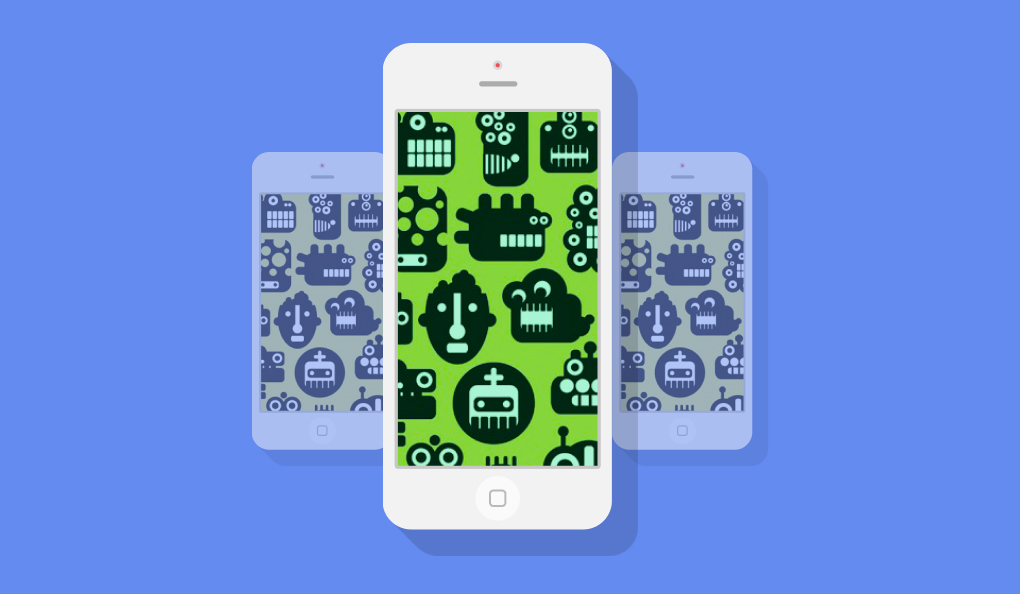
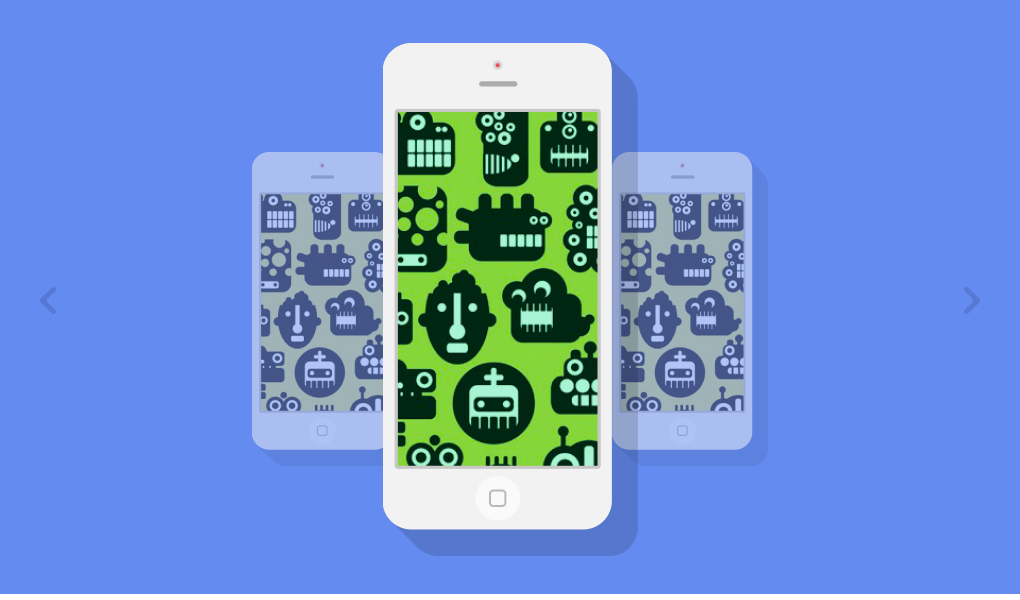
feat: slider basic css

diff --git a/src/index.html b/src/index.html
@@ -21,50 +21,60 @@
       </nav>
       <h1 class="header__title">Singolo<span class="header__title-star">*</span></h1>
     </header>
-    <!-- <section class="slider"></section> -->
+    <section class="slider">
+      <div class="slide-left"><div class="arrow-left"></div></div>
+      <img src="./assets/img/slider-image/slider-bg.jpg" alt="phones" class="slider__img" />
+      <div class="slide-right"><div class="arrow-right"></div></div>
+    </section>
     <section class="services" id="services">
-      <h2>Our Services</h2>
+      <h2 class="services__title">Our Services</h2>
       <p class="services__text">
         Fusce dapibus, tellus ac cursus commodo, tortor mauris condimentum. Duis mollis, non commodo luctus, nisi erat
         porttitor ligula, eget lacinia odio sem nec elit. Fusce dapibus, tellus ac cursus commodo, tortor mauris
         condimentum nibh.
       </p>
       <div class="services__list">
-        <img src="./assets/img/icon/services-item-1.svg" alt="pencil" />
-        <h3>Custom Design</h3>
-        <p>
+        <img class="services__img" src="./assets/img/icon/services-item-1.svg" alt="pencil" />
+        <h3 class="services__list-title">Custom Design</h3>
+        <p class="services__list-text">
           Curabitur vestibulum eget mauris quis laoreet. Phasellus in quam laoreet, viverra lacus ut, ultrices velit.
         </p>
       </div>
       <div class="services__list">
-        <img src="./assets/img/icon/services-item-2.svg" alt="ideas" />
-        <h3>Inovative Ideas</h3>
-        <p>Quisque luctus, quam eget molestie commodo, lacus purus cursus purus, nec rutrum tellus dolor id lorem.</p>
+        <img class="services__img" src="./assets/img/icon/services-item-2.svg" alt="ideas" />
+        <h3 class="services__list-title">Inovative Ideas</h3>
+        <p class="services__list-text">
+          Quisque luctus, quam eget molestie commodo, lacus purus cursus purus, nec rutrum tellus dolor id lorem.
+        </p>
       </div>
       <div class="services__list">
-        <img src="./assets/img/icon/services-item-3.svg" alt="heart" />
-        <h3>Love Is The Answer</h3>
-        <p>
+        <img class="services__img" src="./assets/img/icon/services-item-3.svg" alt="heart" />
+        <h3 class="services__list-title">Love Is The Answer</h3>
+        <p class="services__list-text">
           Nulla sed nunc et tortor luctus faucibus. Morbi at aliquet turpis, et consequat felis. Quisque condimentum.
         </p>
       </div>
       <div class="services__list">
-        <img src="./assets/img/icon/services-item-4.svg" alt="phone" />
-        <h3>Responsive Layout</h3>
-        <p>Sed porttitor placerat rhoncus. In at nunc tellus. Maecenas blandit nunc ligula. Praesent elit leo.</p>
+        <img class="services__img" src="./assets/img/icon/services-item-4.svg" alt="phone" />
+        <h3 class="services__list-title">Responsive Layout</h3>
+        <p class="services__list-text">
+          Sed porttitor placerat rhoncus. In at nunc tellus. Maecenas blandit nunc ligula. Praesent elit leo.
+        </p>
       </div>
       <div class="services__list">
-        <img src="./assets/img/icon/services-item-5.svg" alt="Support" />
-        <h3>24 / 7 Support</h3>
-        <p>
+        <img class="services__img" src="./assets/img/icon/services-item-5.svg" alt="Support" />
+        <h3 class="services__list-title">24 / 7 Support</h3>
+        <p class="services__list-text">
           Vivamus vel quam lacinia, tincidunt dui non, vehicula nisi. Nulla a sem erat. Pellentesque egestas venenatis
           lorem .
         </p>
       </div>
       <div class="services__list">
-        <img src="./assets/img/icon/services-item-6.svg" alt="star" />
-        <h3>Feel Like A Star</h3>
-        <p>Quisque hendrerit purus dapibus, ornare nibh vitae, viverra nibh. Fusce vitae aliquam tellus.</p>
+        <img class="services__img" src="./assets/img/icon/services-item-6.svg" alt="star" />
+        <h3 class="services__list-title">Feel Like A Star</h3>
+        <p class="services__list-text">
+          Quisque hendrerit purus dapibus, ornare nibh vitae, viverra nibh. Fusce vitae aliquam tellus.
+        </p>
       </div>
     </section>
     <section class="portfolio" id="portfolio">
@@ -75,9 +85,9 @@
       <button>Graphic Design</button>
       <button>Artwork</button>
     </section>
-    <section class="about" id="about">
-      <h2>About Us</h2>
-      <p>
+    <!-- <section class="about" id="about">
+      <h2 class="about__title">About Us</h2>
+      <p class="about__text">
         Fusce dapibus, tellus ac cursus commodo, tortor mauris condimentum. Duis mollis, non commodo luctus, nisi erat
         porttitor ligula, eget lacinia odio sem nec elit. Fusce dapibus, tellus ac cursus commodo, tortor mauris
         condimentum nibh.
@@ -121,7 +131,7 @@
           </div>
         </figcaption>
       </figure>
-    </section>
+    </section> -->
     <section class="get-a-quote">
       <h2 class="get-a-quote__title">Get a Quote</h2>
       <p class="get-a-quote__text">

diff --git a/src/style/_slider.scss b/src/style/_slider.scss
@@ -1,2 +1,73 @@
 @import 'variables';
 @import 'mixins';
+
+.slider {
+    position: relative;
+    background-color: $global-background;
+
+    &__img {
+        width: 100%;
+    }
+}
+
+.slide-left,
+.slide-right {
+    position: absolute;
+    width: 2.5rem;
+    background-color: transparent;
+    display: flex;
+    align-items: center;
+    justify-content: center;
+    top: 0;
+    bottom: 0;
+}
+
+.slide-left {
+    .arrow-left {
+        background-image: url('./../assets/img/icon/arrow-left.svg');
+        width: 1.5rem;
+        height: 2.5rem;
+    }
+
+    &:hover {
+        background-color: #fff;
+    }
+}
+
+.slide-right {
+    right: 0;
+
+    .arrow-right {
+        background-image: url('./../assets/img/icon/arrow-right.svg');
+        width: 1.5rem;
+        height: 2.5rem;
+    }
+}
+
+// .arrow {
+//     background-image: url('./../assets/img/icon/arrow.svg');
+//     width: 1.5rem;
+//     height: 2.5rem;
+//     z-index: 1;
+//     position: absolute;
+
+//     &.right {
+//         right: 1rem;
+//         bottom: 50%;
+//     }
+
+//     &.left {
+//         left: 1rem;
+//         top: 50%;
+//         transform: translateY(-50%);
+//     }
+// }
+
+/*
+display: inline-block;
+    position: absolute;
+    top: 50%;
+    transform: translateY(-50%);
+    width: 16px;
+    height: 27px;
+*/

diff --git a/src/style/_services.scss b/src/style/_services.scss
@@ -1,2 +1,24 @@
 @import 'variables';
 @import 'mixins';
+
+.services {
+    background-color: $global-background;
+    padding: 2.5rem 3rem 1.5rem;
+
+    &__title {
+        font-style: normal;
+        font-weight: 900;
+        font-size: 30px;
+        line-height: 36px;
+        margin: 0;
+        color: $title-color;
+    }
+
+    &__text {
+        font-style: normal;
+        font-weight: 300;
+        font-size: 18px;
+        line-height: 30px;
+        color: $text-color;
+    }
+}

diff --git a/src/style/_variables.scss b/src/style/_variables.scss
@@ -1,5 +1,8 @@
 $accent-color: #2D303A;
 $secondary-color: #F06C64;
+$global-background: #E5E5E5;
 $title-color: #666D89;
 $text-color: #767E9E;
 $white-color: #ffffff;
+$border-red: #EA676B;
+$border-blue: #648bf0;
